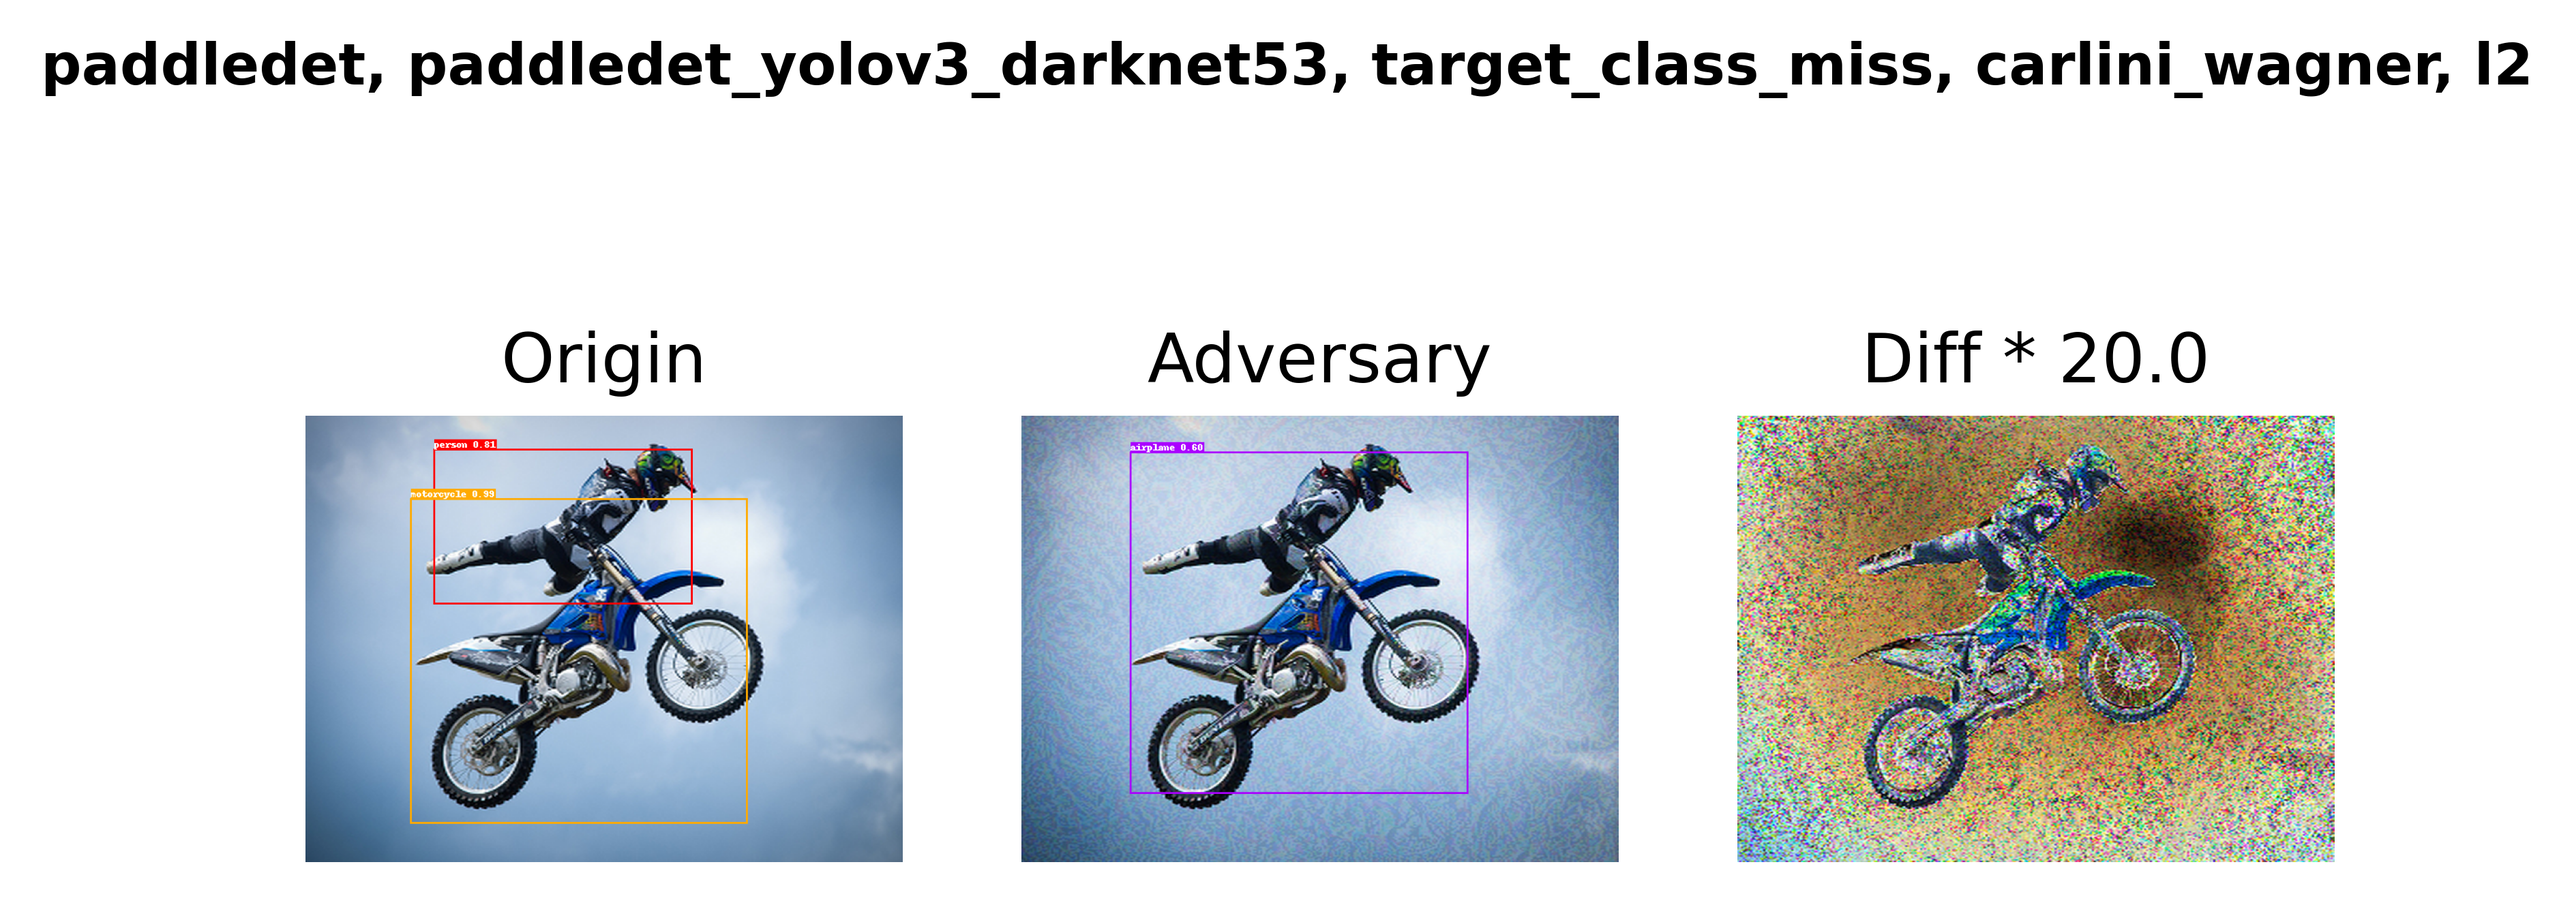
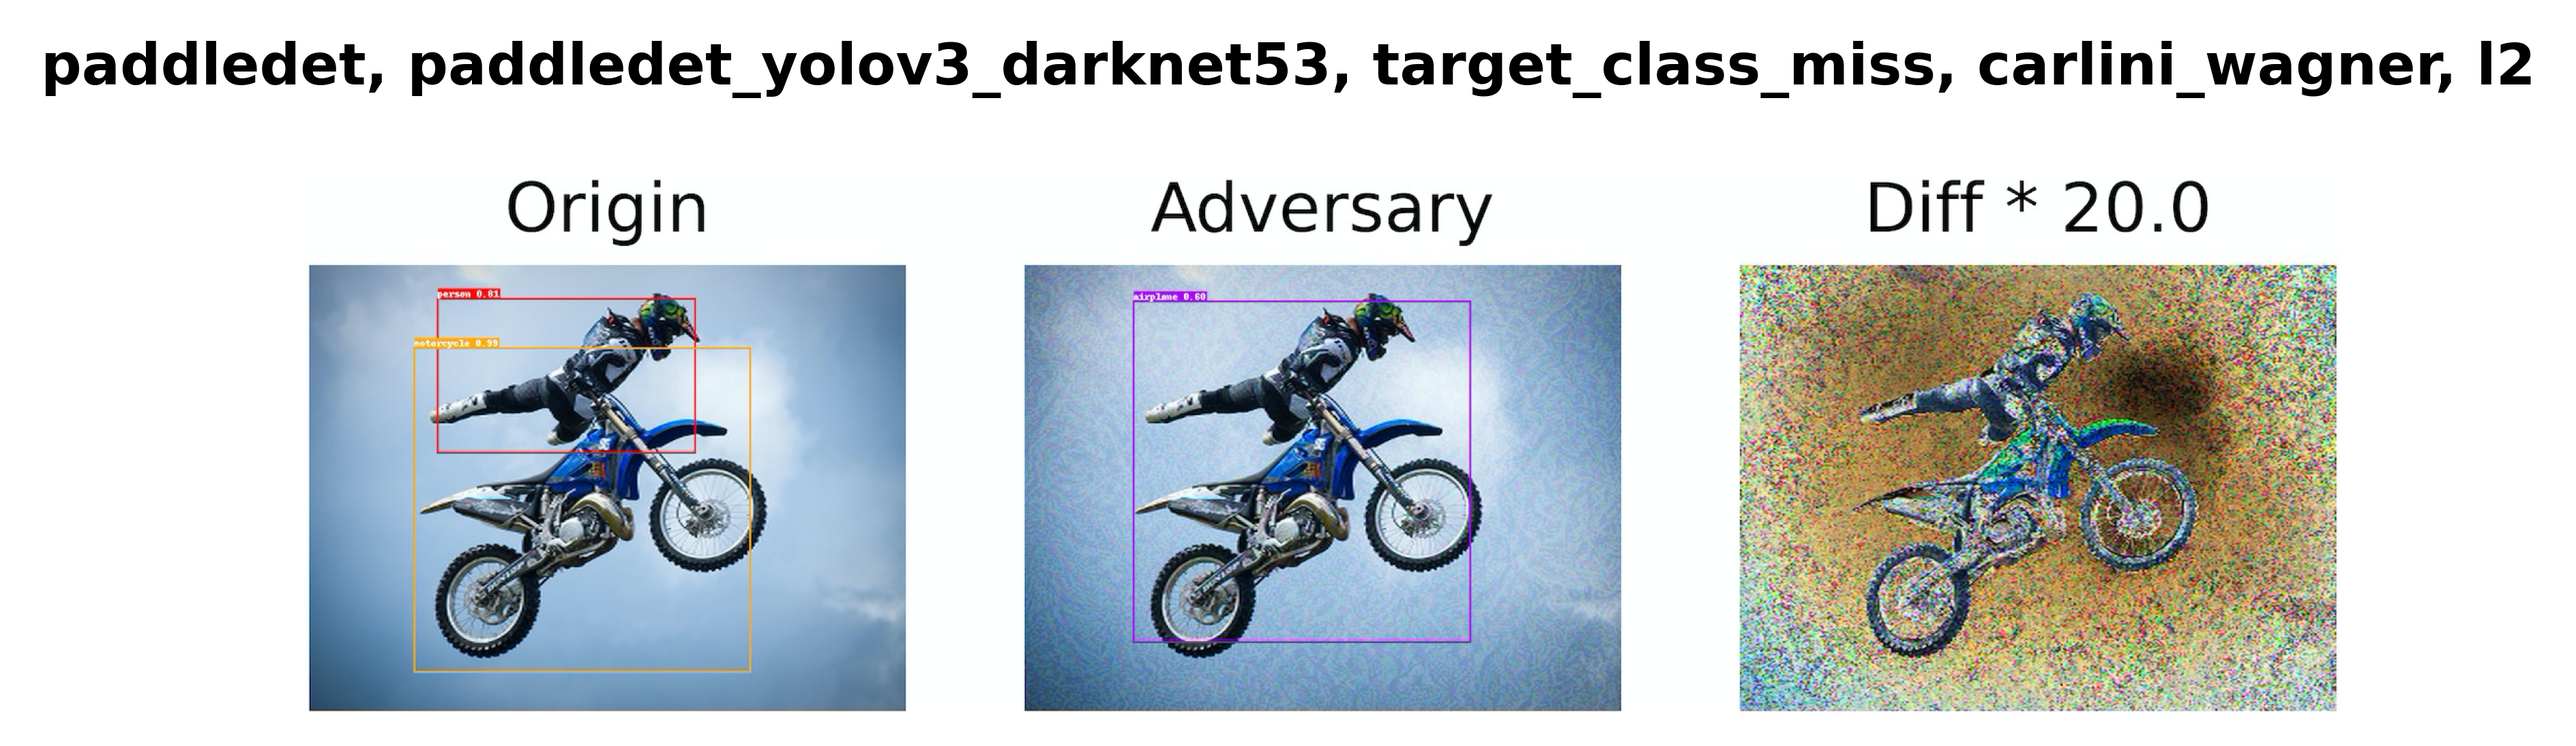
add whitebox for ssd and detr

diff --git a/AdvBox/obj_detection/attack/utils/tools.py b/AdvBox/obj_detection/attack/utils/tools.py
@@ -115,7 +115,12 @@ def _load_paddledet_model(model_name, summary=None):
         'paddledet_faster_rcnn_resnext101_64x4d_dcn': 'faster_rcnn_dcn_x101_vd_64x4d_fpn_1x_coco',
         'paddledet_cascade_rcnn_resnet50_fpn': 'cascade_rcnn_r50_fpn_1x_coco',
         'paddledet_detr_resnet50': 'detr_r50_1x_coco',
-        'paddledet_deformable_detr_resnet50': 'deformable_detr_r50_1x_coco'
+        'paddledet_deformable_detr_resnet50': 'deformable_detr_r50_1x_coco',
+        'paddledet_ssdlite_mobilenet_v1_300': 'ssdlite_mobilenet_v1_300_coco',
+        'paddledet_ssdlite_mobilenet_v3_large_320' :'ssdlite_mobilenet_v3_large_320_coco',
+        'paddledet_ssdlite_ghostnet_320': 'ssdlite_ghostnet_320_coco',
+        'paddledet_ssdlite_mobilenet_v3_small_320': 'ssdlite_mobilenet_v3_small_320_coco',
+        'paddledet_ssd_r34_70e': 'ssd_r34_70e_coco'
     }
 
     cfg_name = switcher.get(model_name, None)
@@ -127,6 +132,8 @@ def _load_paddledet_model(model_name, summary=None):
         model = ppdet.PPdet_Rcnn_Model(cfg_name, cascade=True)
     elif cfg_name.__contains__('detr'):
         model = ppdet.PPdet_Detr_Model(cfg_name)
+    elif cfg_name.startswith('ssd'):
+        model = ppdet.PPdet_SSD_Model(cfg_name)
     return model
 
 

diff --git a/AdvBox/obj_detection/attack/models/paddledet.py b/AdvBox/obj_detection/attack/models/paddledet.py
@@ -34,7 +34,8 @@ import matplotlib.pyplot as plt
 __all__ = [
     'PPdet_Yolov3_Model',
     'PPdet_Rcnn_Model',
-    'PPdet_Detr_Model'
+    'PPdet_Detr_Model',
+    'PPdet_SSD_Model'
 ]
 
 config_dir = os.path.dirname(os.path.realpath(__file__ + '../../..')) + '/configs'

diff --git a/AdvBox/obj_detection/README.md b/AdvBox/obj_detection/README.md
@@ -64,6 +64,38 @@ In Advbox-ObjectDetection, two well-known whitebox attacking methods, CW and PGD
   <img src="attack/outputs/images/single_cw_stdout.png" style="zoom:70%;" />
   <img src="attack/outputs/images/single_cw_demo.png" style="zoom:70%;" />
 
+**Misclassification attacks on different models:**
+
+<table align="center">
+<tr>
+    <td align="center">Model</td>
+    <td align="center">Original Detection Results</td>
+    <td align="center">Adversarial Detection Results </td>
+    <td align="center">Diff</td>
+
+</tr>
+
+<tr>
+    <td align="center">yolov3</td>
+    <td align="center"><img src="./attack/outputs/images/motor_yolov3_origin.png" width=300></td>
+    <td align="center"><img src="./attack/outputs/images/motor_yolov3_adv.png" width=300></td>
+    <td align="center"><img src="./attack/outputs/images/motor_yolov3_diff.png" width=300></td>
+</tr>
+
+<tr>
+    <td align="center">detr</td>
+    <td align="center"><img src="./attack/outputs/images/motor_detr_origin.png" width=300></td>
+    <td align="center"><img src="./attack/outputs/images/motor_detr_adv.png" width=300></td>
+    <td align="center"><img src="./attack/outputs/images/motor_detr_diff.png" width=300></td>
+</tr>
+
+<tr>
+    <td align="center">ssd</td>
+    <td align="center"><img src="./attack/outputs/images/motor_ssd300_origin.png" width=300></td>
+    <td align="center"><img src="./attack/outputs/images/motor_ssd300_adv.png" width=300></td>
+    <td align="center"><img src="./attack/outputs/images/motor_ssd_diff.png" width=300></td>
+</tr>
+
       
 ### Attack Transferability Eval & Ensemble Attacks
 Adversarial examples are particularly useful because of its transferability (i.e. the adv example trained on one model can also fool another model.) Advbox provides automatic scripts to evaluate the transferabilty of cw and pgd attack. These scripts can be found in `ensemble_attack` folder. 
